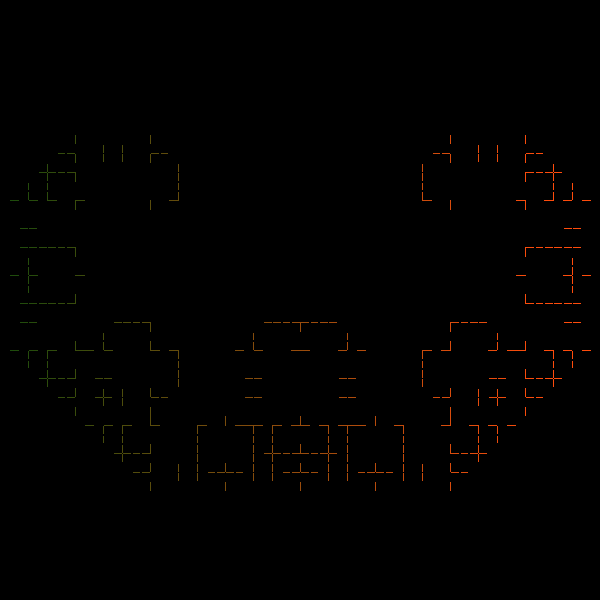
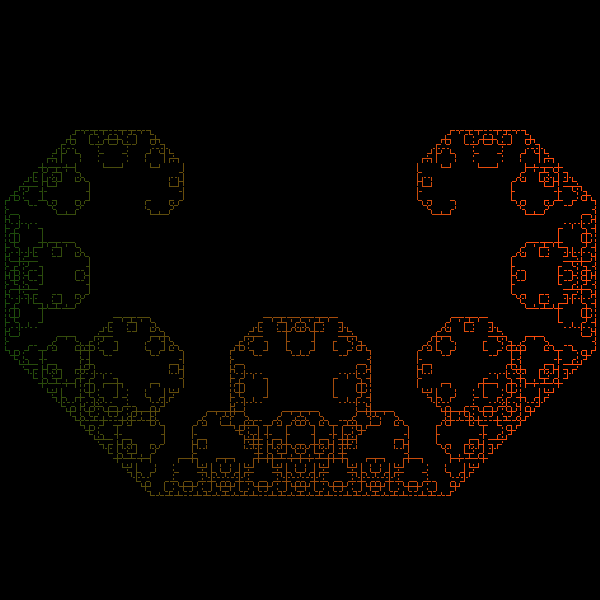
Cleanup levy c curve + higher res

diff --git a/README.md b/README.md
@@ -1,7 +1,25 @@
 # Playing with [uiua](https://www.uiua.org/)
 
-| | | |
-|---|---|---|
-| ![mandelbrot fractal](./1-mandelbrot/output-1080.png) | ![dragon curve](./2-dragon/output-12.png) | ![im a sinner](./4-im-a-sinner/output-1000.png) |
-<!-- | ![levy c curve](./3-levy-c-curve/output-10.png) | | | -->
+<table>
+  <tr>
+    <td width="50%" valign="top">
+      <h3>Mandelbrot set fractal</h3>
+      <a href="1-mandelbrot/main.ua"><img src="1-mandelbrot/output-1080.png" /></a>
+    </td>
+    <td width="50%" valign="top">
+      <h3>Dragon curve</h3>
+      <a href="2-dragon/main.ua"><img src="2-dragon/output-12.png" /></a>
+    </td>
+  </tr>
+  <tr>
+    <td width="50%" valign="top">
+      <h3>Levy C curve</h3>
+      <a href="3-levy-c-curve/main.ua"><img src="3-levy-c-curve/output-10.png" /></a>
+    </td>
+    <td width="50%" valign="top">
+      <h3>sin(x^2) + cos(x^2) = sin(xy)</h3>
+      <a href="4-im-a-sinner/main.ua"><img src="4-im-a-sinner/output-1000.png" /></a>
+    </td>
+  </tr>
+</table>
 
